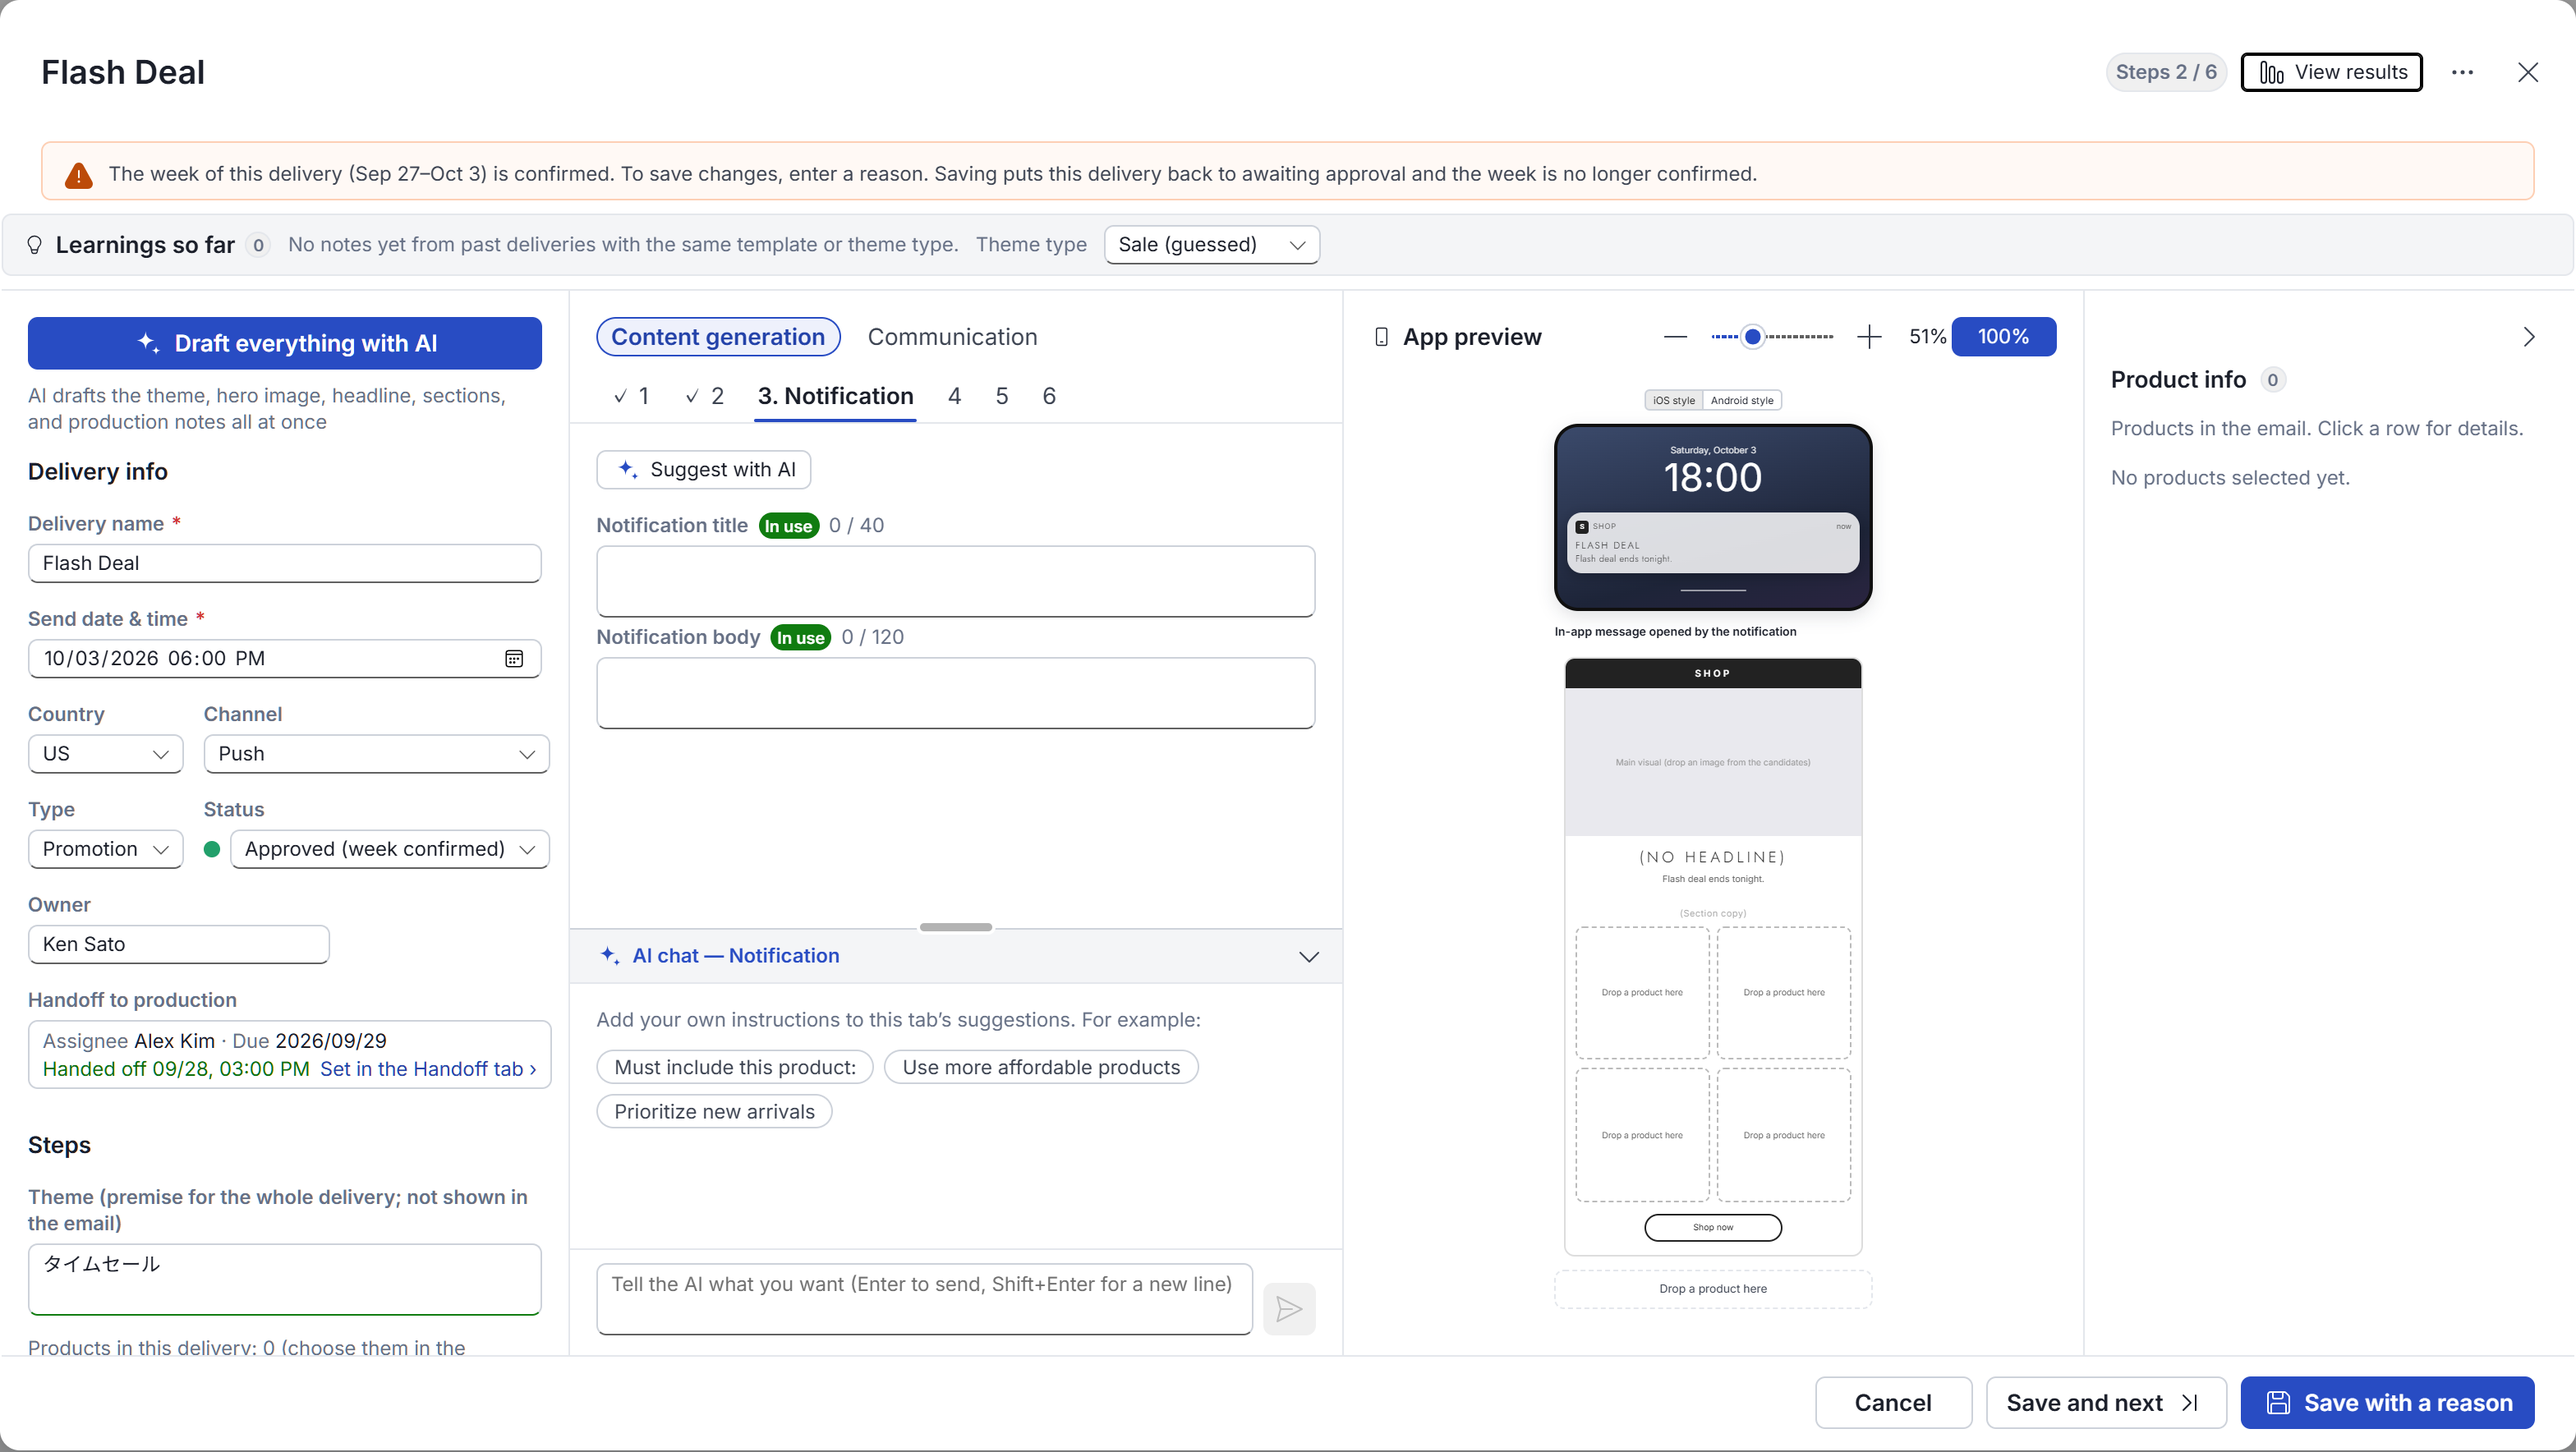
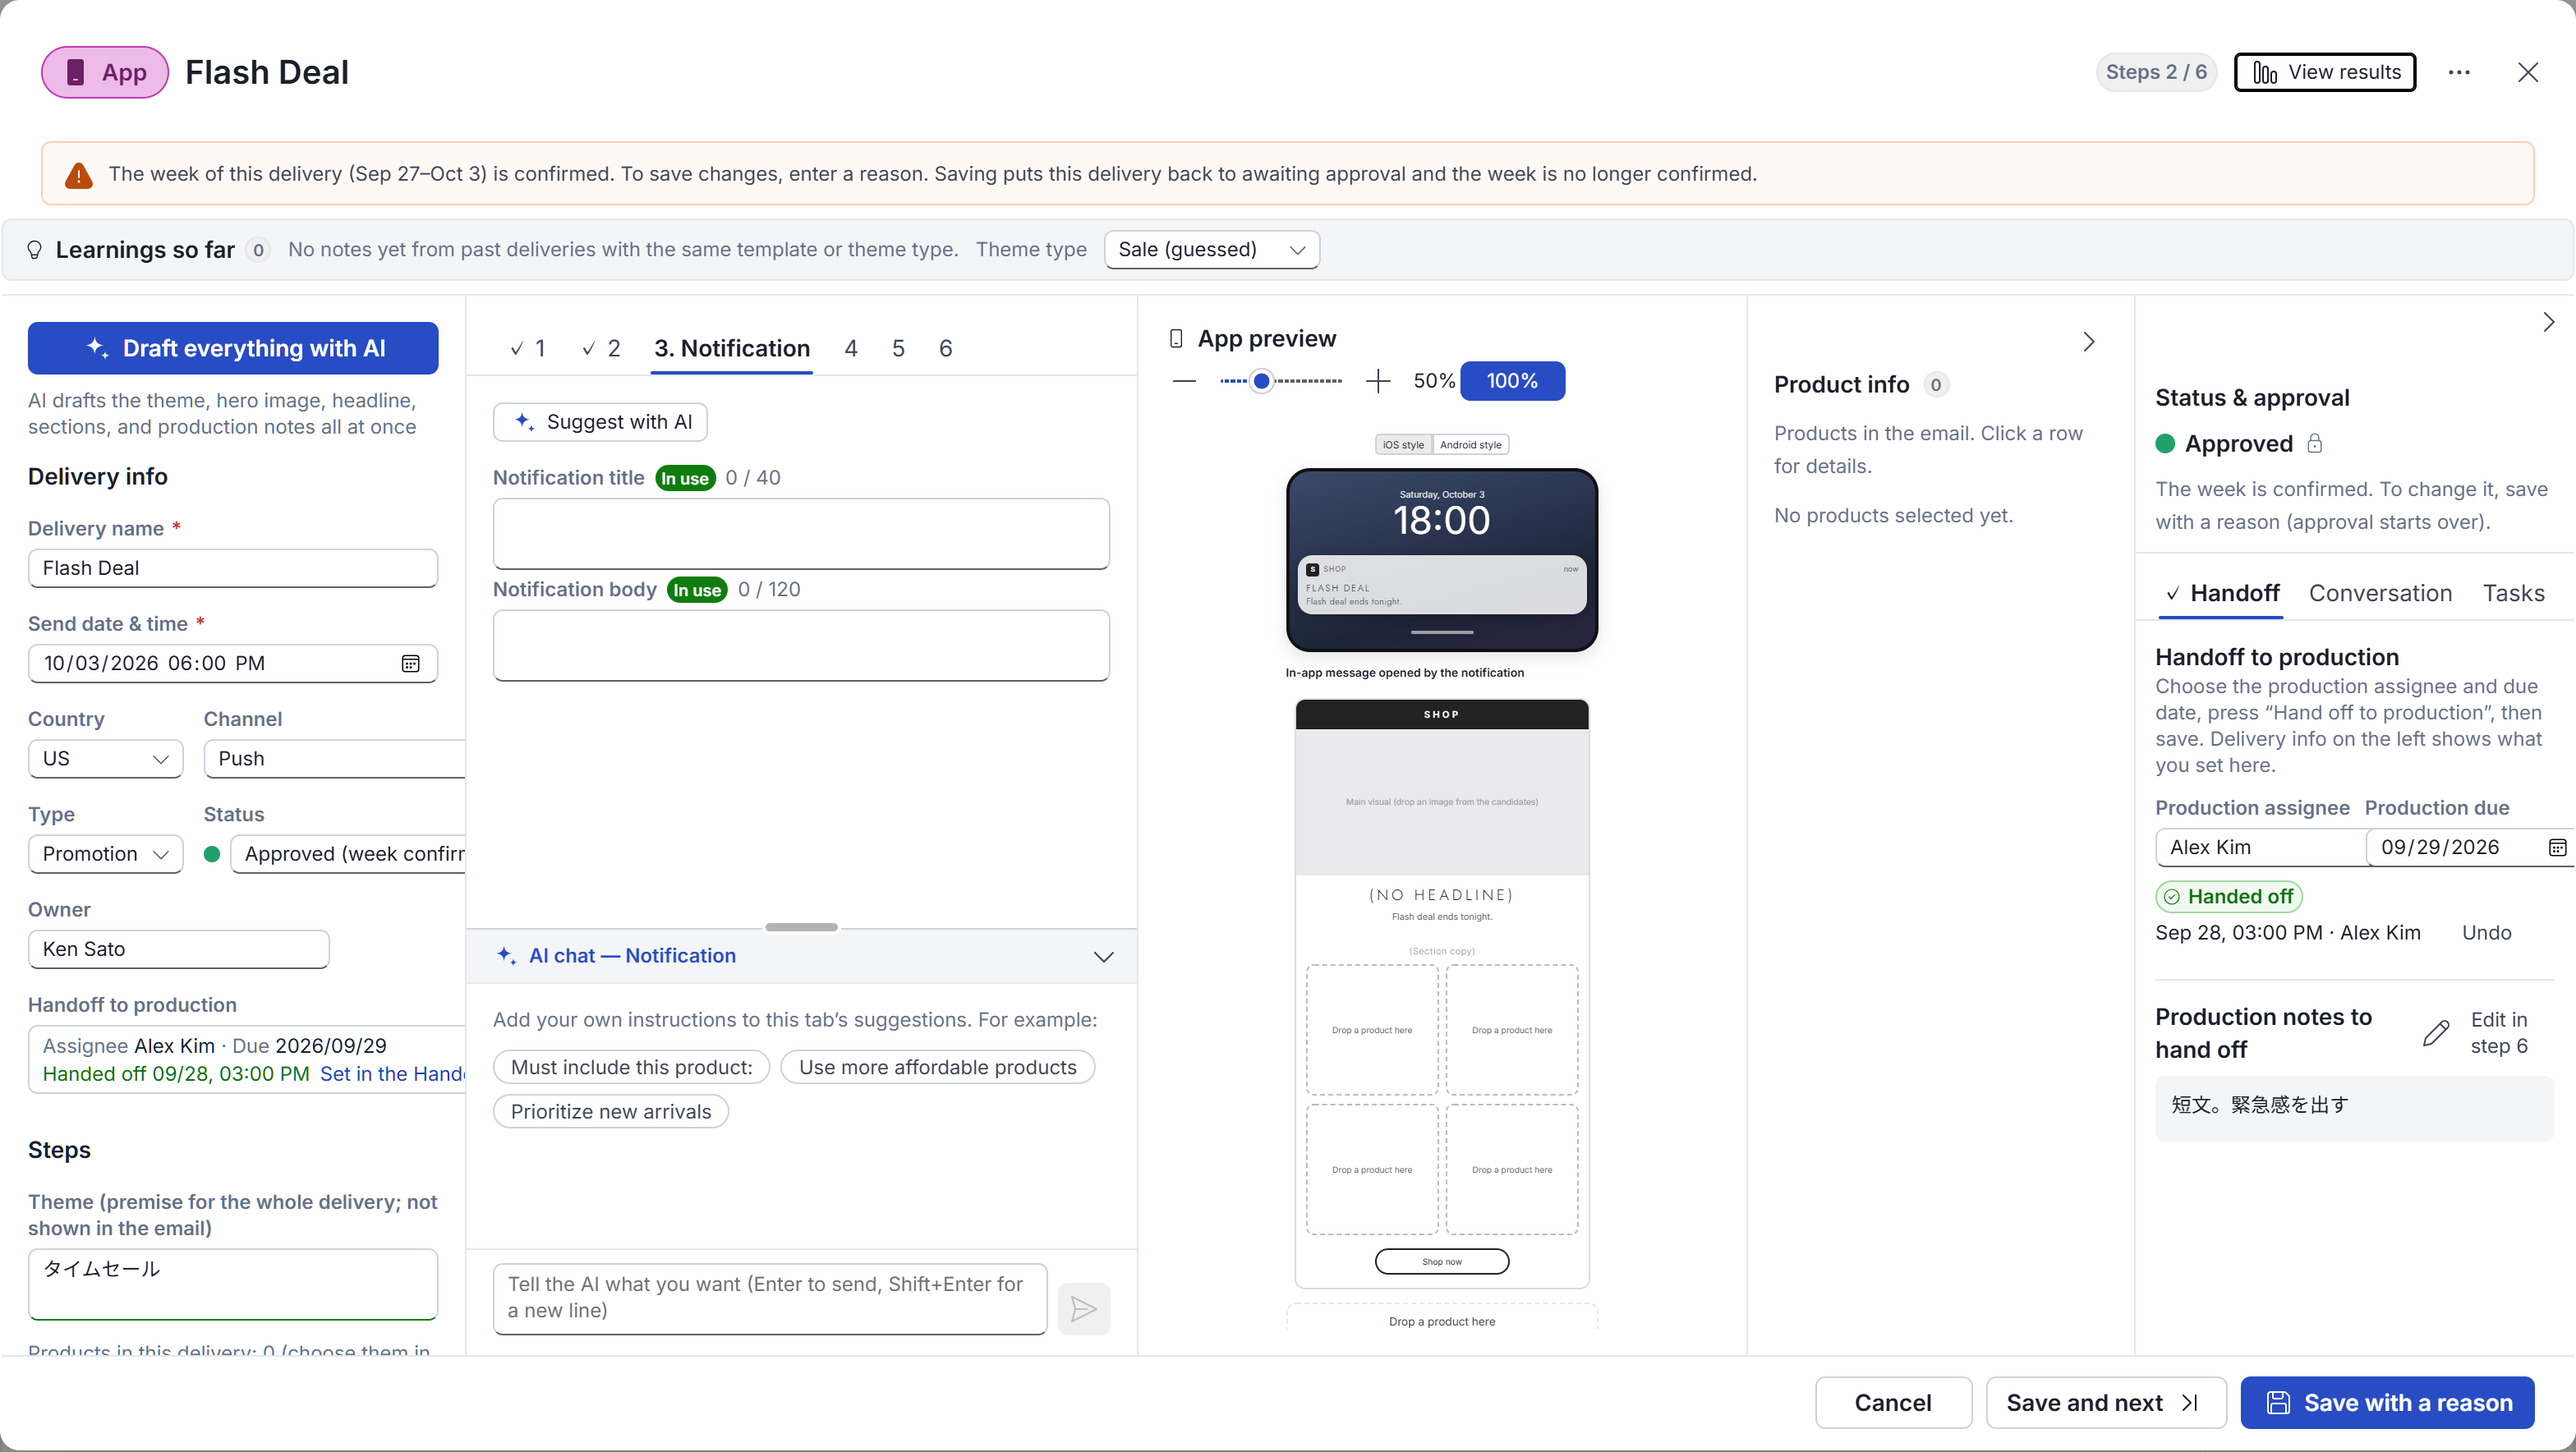
feat: 配信カードの題名の左に、チャネルの札(メール = 青の封筒 / アプリ = ベリー色のスマートフォン。X27)

diff --git a/src/ChannelBadge.tsx b/src/ChannelBadge.tsx
@@ -1,0 +1,40 @@
+import { makeStyles, mergeClasses, tokens } from '@fluentui/react-components'
+import { MailFilled, PhoneFilled } from '@fluentui/react-icons'
+import { useT } from './i18n'
+import { CHANNEL_PUSH } from './status'
+
+const useStyles = makeStyles({
+  // 題名の左に置く札。週の表示の配信の帯と同じ色(メール = 青、アプリ = ベリー)
+  root: {
+    display: 'inline-flex',
+    alignItems: 'center',
+    columnGap: '6px',
+    flexShrink: 0,
+    height: '30px',
+    padding: '0 12px 0 10px',
+    borderRadius: tokens.borderRadiusCircular,
+    fontSize: tokens.fontSizeBase300,
+    fontWeight: tokens.fontWeightSemibold,
+    whiteSpace: 'nowrap',
+  },
+  email: { backgroundColor: tokens.colorPaletteBlueBackground2, color: tokens.colorPaletteBlueForeground2, border: `1px solid ${tokens.colorPaletteBlueBorderActive}` },
+  app: { backgroundColor: tokens.colorPaletteBerryBackground2, color: tokens.colorPaletteBerryForeground2, border: `1px solid ${tokens.colorPaletteBerryBorderActive}` },
+  icon: { fontSize: '20px' },
+})
+
+/**
+ * 配信のチャネル(メール / アプリ)の札。配信カードの題名の左に置き、開いた瞬間に、どちらの配信かが分かるようにする。
+ * アイコン(封筒 / スマートフォン)と文字を並べる(アイコンだけだと見落としやすいため)。見るだけ(変えるのは、左の「チャネル」の欄)
+ */
+export function ChannelBadge({ channel }: { channel?: string | null }) {
+  const s = useStyles()
+  const t = useT()
+  if (!channel) return null
+  const app = channel === CHANNEL_PUSH
+  return (
+    <span className={mergeClasses(s.root, app ? s.app : s.email)} role="img" aria-label={app ? t('アプリの配信', 'App delivery') : t('メールの配信', 'Email delivery')}>
+      {app ? <PhoneFilled className={s.icon} /> : <MailFilled className={s.icon} />}
+      {app ? t('アプリ', 'App') : t('メール', 'Email')}
+    </span>
+  )
+}

diff --git a/src/CardDetail.tsx b/src/CardDetail.tsx
@@ -31,6 +31,7 @@ import type { DeliveryCard } from './models/deliveryCards'
 import { DeliveryProductsService } from './data/deliveryProducts'
 import type { Product } from './models/products'
 import type { HeroImage } from './models/heroImages'
+import { ChannelBadge } from './ChannelBadge'
 import { ContentPane } from './ContentPane'
 import { Preview } from './Preview'
 import { DEFAULT_PUSH_TEMPLATE, DEFAULT_TEMPLATE, TEMPLATE_VALUES, channelOf, sectionIndexAt, sectionsOf, templateFromValue, type EmailTemplateId, type TemplateChannel } from './templates'
@@ -310,7 +311,7 @@ const useStyles = makeStyles({
     backgroundColor: tokens.colorNeutralBackground1,
   },
   overlayBar: { width: '320px' },
-  titleRow: { display: 'flex', alignItems: 'center', columnGap: '8px', padding: '12px 12px 12px 24px', backgroundColor: tokens.colorNeutralBackground1 },
+  titleRow: { display: 'flex', alignItems: 'center', columnGap: '10px', padding: '12px 12px 12px 24px', backgroundColor: tokens.colorNeutralBackground1 },
   titleText: { flexGrow: 1, minWidth: 0 },
   panes: {
     flexGrow: 1,
@@ -1076,6 +1077,8 @@ export function CardDetail({ card, defaults, products, heroes, otherThemes, owne
             </div>
           )}
           <div className={styles.titleRow}>
+            {/* メールかアプリかを、開いた瞬間に分かるように、題名の左に札を置く */}
+            <ChannelBadge channel={form.channel} />
             <Text as="h2" size={500} weight="semibold" className={styles.titleText}>{card ? card.name : t('配信カードの新規作成', 'New delivery card')}</Text>
             <Tooltip
               relationship="description"

diff --git a/docs/BACKLOG.md b/docs/BACKLOG.md
@@ -157,6 +157,7 @@
 | X24 | ✅ | 「まとめて AI で下書き」を「この画面 ▾」にも(利用者と決めた 2026-10-17)。**週の表示**: いちばん上に「この週をまとめて AI で下書き」(表示中の週。確定した週・下書きの最中は選べないだけにし、理由を横に)。区切りのあとに CSV・PDF・履歴。「新規作成 ▾」の入口も残す(2 か所)。**月の表示**: 「この月の空いている週から、まとめて AI で下書き」(案 2)。押すと、その月で配信がいちばん少ない(確定していない)週の週表示に移って、下書きモードを始める。月を一度にまとめて作ることはしない(下書きモードは週の作り。1 回 10 本まで) | — | なし |
 | X25 | ✅ | 月の表示に、見るだけの「月の要約の帯」(利用者と決めた 2026-10-17)。週の帯と同じ位置に 1 行: 「この月  未起案 n › 承認待ち n › 承認済み n / 全体 ・ 確定した週 n / n」。操作のボタンは置かない(依頼・承認・確定は週の表示で)。「確定した週」を押すと、確定していない最初の週の週表示へ。一覧の表示(月の配信)にも同じ帯。見た目(並び・記号・言葉)は、承認プロセスのセッションが作り直している週の帯(承認のバー)に合わせ、部品を共有できるよう、作る前にそちらと相談する | — | なし |
 | X26 | ✅ | 配信カードの左ペインの「制作指示」の欄(見たまま編集のエディタ)と、その下の「切り口」の 1 行を外す(利用者と決めた 2026-10-17)。制作指示は、作るのは中ペインの ⑥、引き継ぐ前に確かめるのは右のプロセスのペインの「渡す制作指示」(読むだけ)に役割が分かれ、書き換えられる場所が 2 つあるのは C-3 と同じ問題(PRINCIPLES 8-3)。保存・AI の下書き・進み具合は ⑥ と同じ値なので変わらない。`src/CardDetail.tsx` の左ペイン(Field「制作指示」と NotesEditor・instructionsAngle の Caption)。触る前に承認プロセスのセッションに一言。左の「工程」の欄のほかの項目(テーマ・ヘッドライン・コピー)も中ペインと重なっているが、今回は触らず、使ってみてから決める | — | なし |
+| X27 | ✅ | 配信カードの題名の左に、チャネルの札(利用者の要望 2026-10-19: メールかアプリかをぱっと見で)。メール = 青の封筒(MailFilled)、アプリ = ベリー色のスマートフォン(PhoneFilled)。アイコンと文字を並べる。週の表示の配信の帯と同じ色。`src/ChannelBadge.tsx` | — | なし |
 
 (2026-10-12: プレビューは、配信カードのチャネルに合わせて 1 種類だけにした(メールとプッシュの切り替えをやめた)。X6 の前段)
 

diff --git a/docs/FEATURES.md b/docs/FEATURES.md
@@ -71,6 +71,7 @@
 | ③ 右: プレビュー | メール / アプリ(通知とメッセージ)のプレビュー。倍率の変更(スライダー、「全体」ボタン) |
 | ④ 右端: 商品情報 | 掲載商品の参照用の一覧。**既定では開いている**(右上の「>」で、右端の細い帯に折りたためる) |
 
+- 題名の左: **チャネルの札**(メール = 青の封筒、アプリ = ベリー色のスマートフォン。週の表示の配信の帯と同じ色)。開いた瞬間に、どちらの配信かが分かる。見るだけ(変えるのは左の「チャネル」)。
 - 題名の横: 工程の進み具合「**工程 n / 6**」、送ったあとの配信なら「**結果を見る**」、「**…**」のメニュー(取りやめ・削除)。
 - 題名の下: 「**この配信のアラート**」の帯(問題の商品を押すと、プレビューで目立つ)、「**これまでの学び**」の帯(同じテンプレート・テーマの種類の、過去の配信のメモ)。
 - 下: 「あなたの名前」「**保存して承認**」「**差し戻す**」「キャンセル」「**保存して次へ**」「**保存**」。確定した週の配信は、保存に理由が必要。
